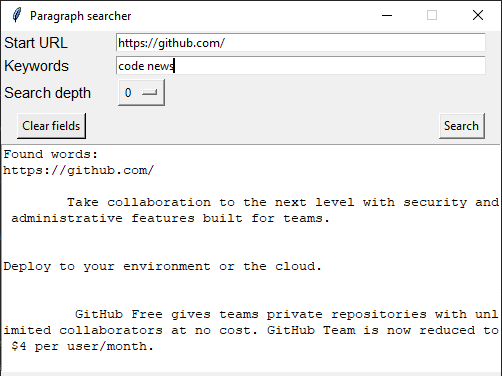
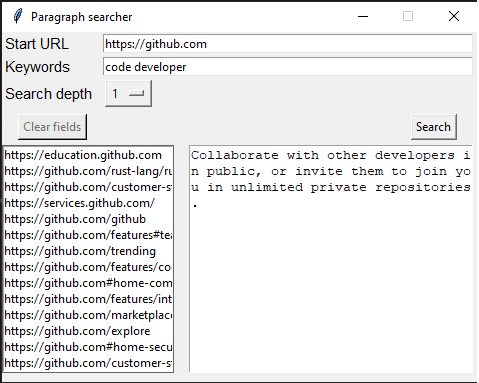
Only show pages with results, incasesensitive search, disable abort

diff --git a/ParagraphSearchRefactor.py b/ParagraphSearchRefactor.py
@@ -11,8 +11,15 @@ class SearchedPage:
         self.Page = Page
         self.Sentences = Sentences
 
+def onlyFoundSentences(SearchedPages):
+    foundSentences = []
+    for page in SearchedPages:
+        if page.Sentences != []:
+            foundSentences.append(SearchedPage(page.Page, page.Sentences))
+    return foundSentences
 
-def ParagraphSearch(url, depth, words):
+
+def ParagraphSearch(url, depth, words, onlyFindings=False):
     if isinstance(words, str) == True: #convert to list if only one search word
         words = [words]
     usedUrls = {url} #add starting point
@@ -21,7 +28,10 @@ def ParagraphSearch(url, depth, words):
     if depth == 0:
         SearchedPages.append(SearchedPage(url, vp.findSentencesOnly(url, words)))
         wf.writeToFile(SearchedPages) #return filename, TODO make this more sensible
-        return(SearchedPages)
+        if onlyFindings==False:
+            return(SearchedPages)
+        else:
+            return onlyFoundSentences(SearchedPages)
     currDepth = 0
     while depth > currDepth:
         currDepth += 1
@@ -42,5 +52,8 @@ def ParagraphSearch(url, depth, words):
             foundUrls.update(newUrls) #replace with only new urls
         else:
             break
-    wf.writeToFile(SearchedPages) #return filename, TODO make this more sensible
-    return (SearchedPages)
+    wf.writeToFile(SearchedPages)
+    if onlyFindings==False:
+        return(SearchedPages)
+    else:
+        return onlyFoundSentences(SearchedPages)

diff --git a/main/crawl.py b/main/crawl.py
@@ -3,9 +3,10 @@ from urllib.parse import urlparse
 
 def findSentences(lxml, words):
     sentences = []
-    for word in words:
+    wordsLower = [w.lower() for w in words]
+    for word in wordsLower:
         for tag in lxml.descendants:
-            if tag.name == 'p' and tag.string and word in tag.string:
+            if tag.name == 'p' and tag.string and word in tag.string.lower():
                 sentences.append(tag.string)
     return sentences
 

diff --git a/README.md b/README.md
@@ -6,14 +6,15 @@ Really simple webscraper, which searches for sentences inside paragraph tags, ba
 
 Currently this can be used on:
 * command line with search.py (missing support for multiple keywords, needs work). Example:
-`python3 search.py https://github.com/ 1 code`
-* and from simple GUi, `gui.pyw`. Currently supports multiple words.
+`python3 search.py 'https://github.com/' 1 'code'`
+* and from simple GUI, `gui.pyw`. Currently supports multiple words.
 ![alt text](sample.png "Gui")
+
+Results are saved to FoundSentences (as text files, xlsx would probably be better format), and displayed in GUI if used.
 
 
 
 ## TODO
-* Filter out pages where nothing was found - probably needs sorting
 * Make search incasesensitive
 * fix stopping abort (terminating thread)
 * add scrollbar https://stackoverflow.com/questions/13832720/how-to-attach-a-scrollbar-to-a-text-widget
